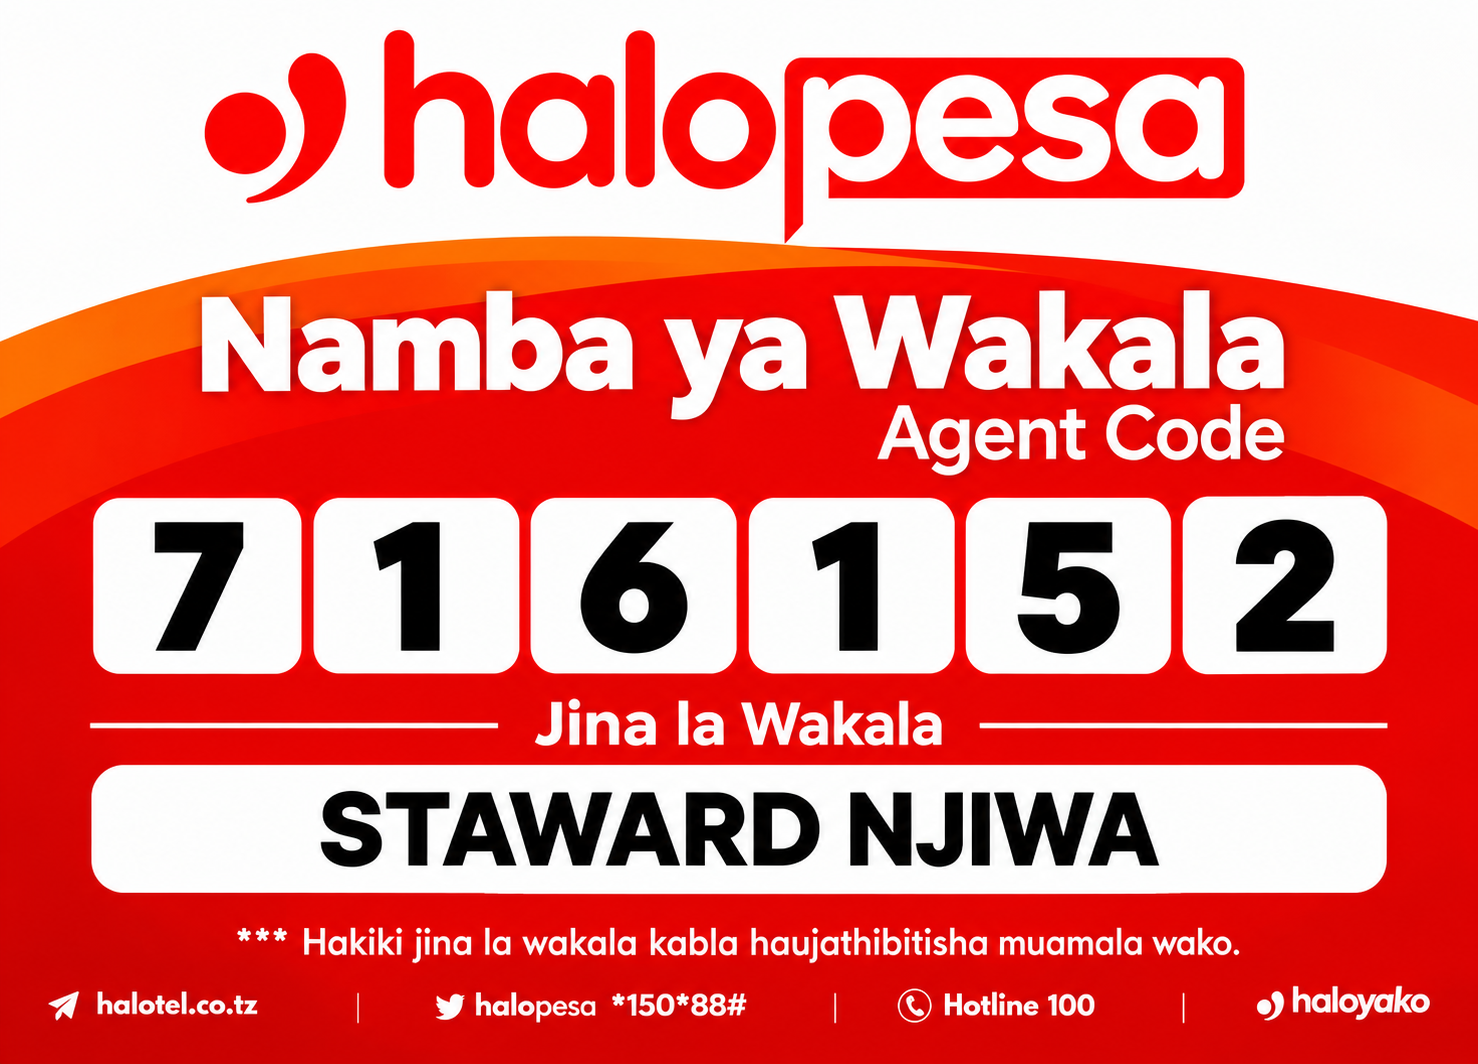
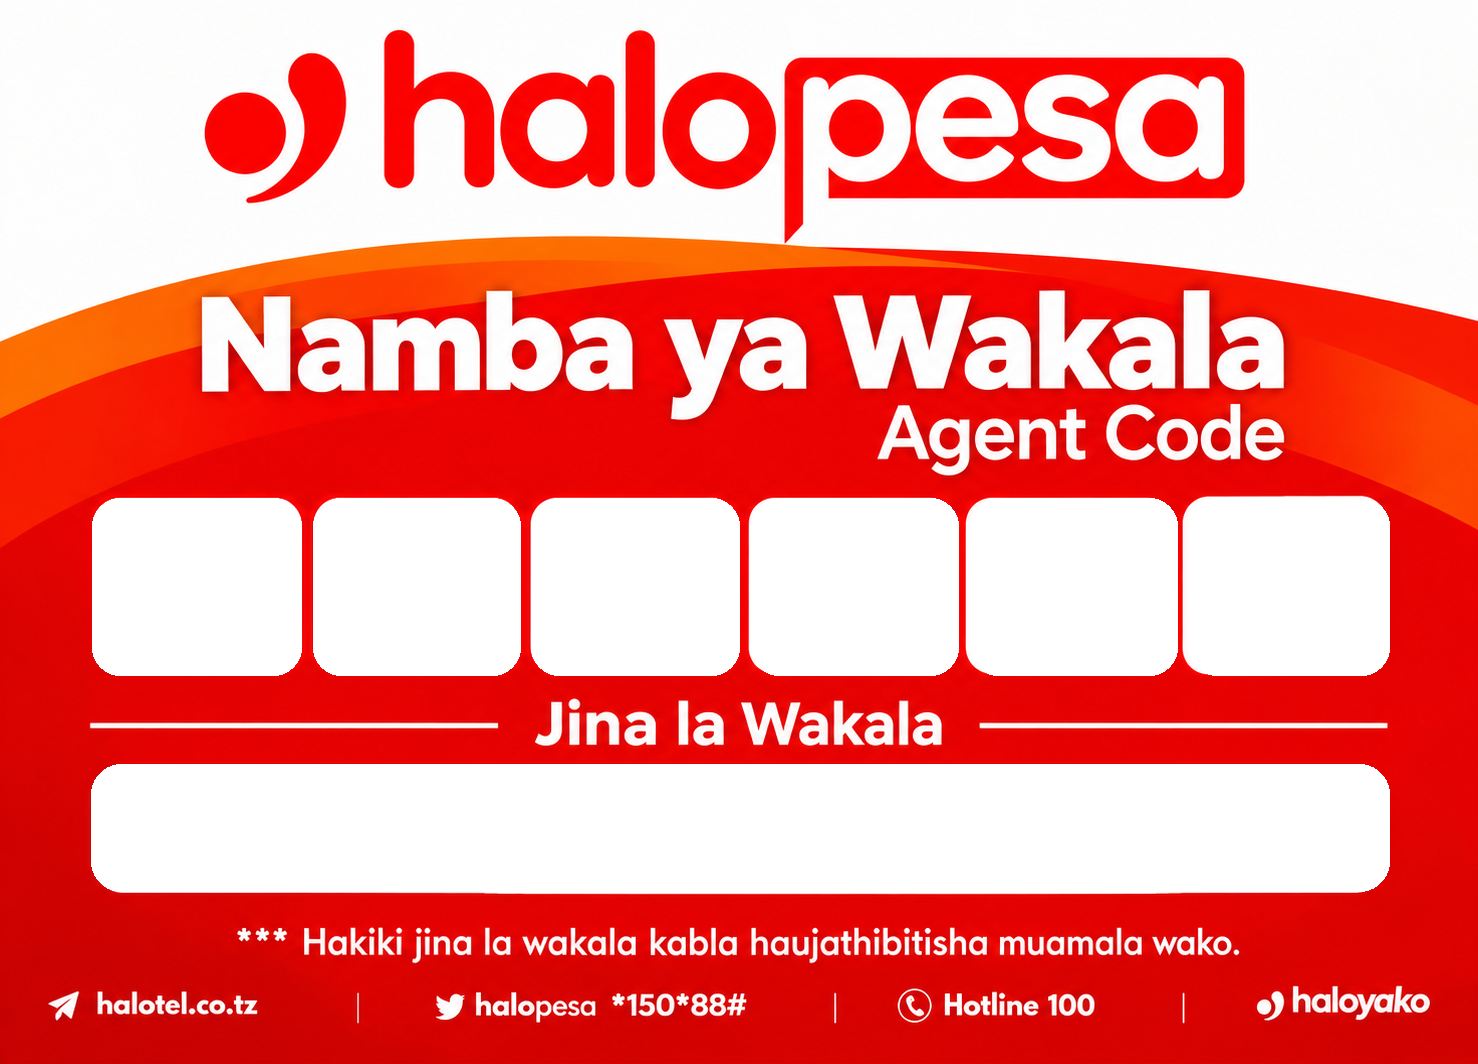
fix: prevent cached Halotel sample data

diff --git a/kituo-digitali/client/src/pages/AgentStickerPage.tsx b/kituo-digitali/client/src/pages/AgentStickerPage.tsx
@@ -79,6 +79,11 @@ async function drawSticker(canvas:HTMLCanvasElement,network:NetworkKey,name:stri
     const reference=await loadImage(asset("halotel-agent-reference-clean.png"));
     canvas.width=reference.naturalWidth;canvas.height=reference.naturalHeight;
     ctx.drawImage(reference,0,0,canvas.width,canvas.height);
+    // Clear the editable panels defensively so an older cached template can never
+    // reintroduce the sample code or sample agent name.
+    const codeBoxes=[[92,498,301,675],[313,498,520,675],[531,498,739,675],[751,498,958,675],[970,498,1177,675],[1189,498,1389,675]];
+    codeBoxes.forEach(([x,y,w,h])=>round(ctx,x,y,w-x,h-y,28,"#fff"));
+    round(ctx,91,764,1298,127,30,"#fff");
     const centers=[.133,.282,.431,.578,.727,.875];
     const enteredNumber=cleanNumber(number),enteredName=cleanName(name);
     enteredNumber.slice(0,6).split("").forEach((digit,index)=>textFit(ctx,digit,canvas.width*centers[index],canvas.height*.551,canvas.width*.115,canvas.height*.145,"#050505",950,false,true));
